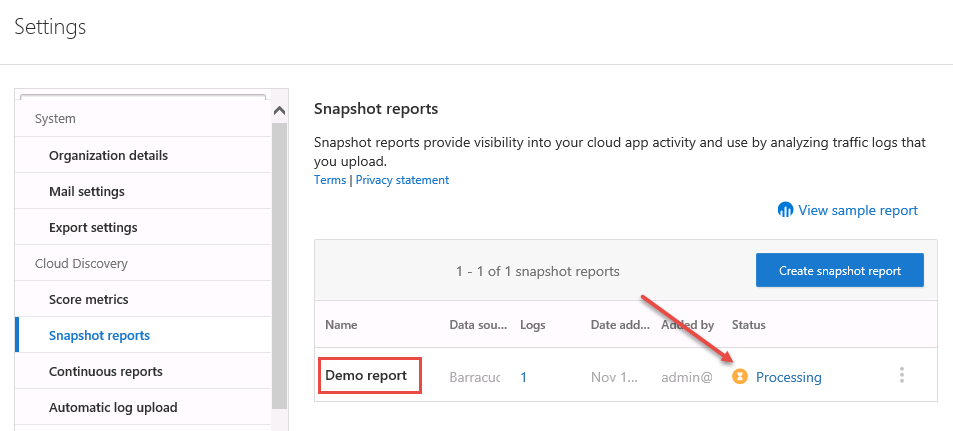
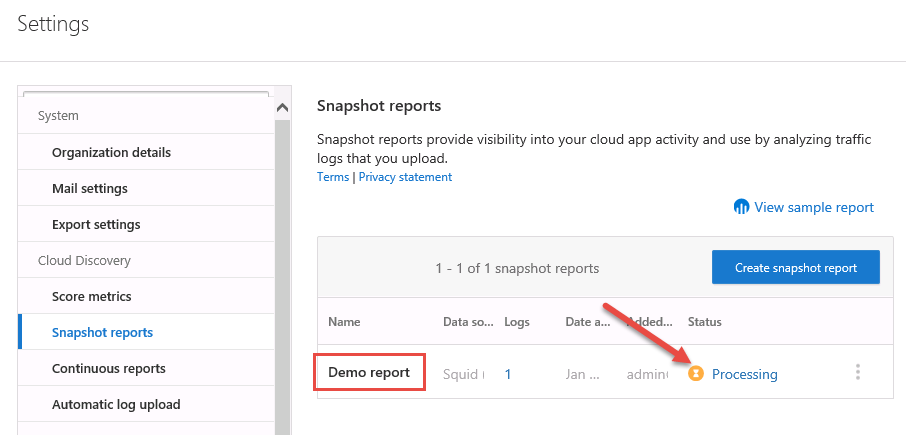
snapshot

diff --git a/instructions.md b/instructions.md
@@ -2331,11 +2331,11 @@ To create snapshot reports:
     >|Data Source| **SQUID (Common)**|
     >|Anonymize private information |**Check the box**|
     >
-    !IMAGE[New snapshot](\Media\dis-createsnapshot.png "New snapshot") change pic to new one 
+    !IMAGE[New snapshot](\Media\dis-createsnapshot.png "New snapshot")
 
 3. [] In the **Verify your log format** window, click on the **Download sample log** button and save it to your desktop.
 
-    !IMAGE[Download log](Media\dis-downloadsample.png "Download log")
+    !IMAGE[Download log](Media\dis-squiddownload.png "Download log")
 
 4. [] Close that window.
 
@@ -2343,17 +2343,21 @@ To create snapshot reports:
 
     !IMAGE[Browse logs](\Media\dis-browse.png "Browse logs")
 
-    !IMAGE[Select logs](\Media\dis-selectlogs.png "Select logs") change pic to new one 
+    !IMAGE[Select logs](\Media\dis-squidselect.png "Select logs") 
 
 6. [] Now that the log has been selected, click on the **Create** button to create your report.
 
-    !IMAGE[Create snapshot](\Media\dis-snapshotcreate.png "Create snapshot") change pic 
+    !IMAGE[Create snapshot](\Media\dis-squidcreate.png "Create snapshot")
 
-7. [] Your report will then be processed.
+7. [] Your report will then be processed. It will take a couple of minutes before it's marked as **Ready**.
 
     !IMAGE[Report processing](\Media\dis-processing.png "Report processing")
 
-8. [] When your report is ready, you can click on it and start exploring the discovered apps, users, IPs.
+    !IMAGE[Report processing](\Media\dis-reportready.png "Report processing")
+
+8. [] Now that your report is marked as **ready**, click on the text **Ready**. You will be then redirected to your snapshot report where you can start exploring the discovered apps, users, IPs. Your instructor can give you more details on how to use the dashboard.
+
+    !IMAGE[Report processing](\Media\dis-reportready2.png "Report ready")
 
     !IMAGE[Report dashboard](\Media\dis-dashboard.png "Report dashboard")
 
